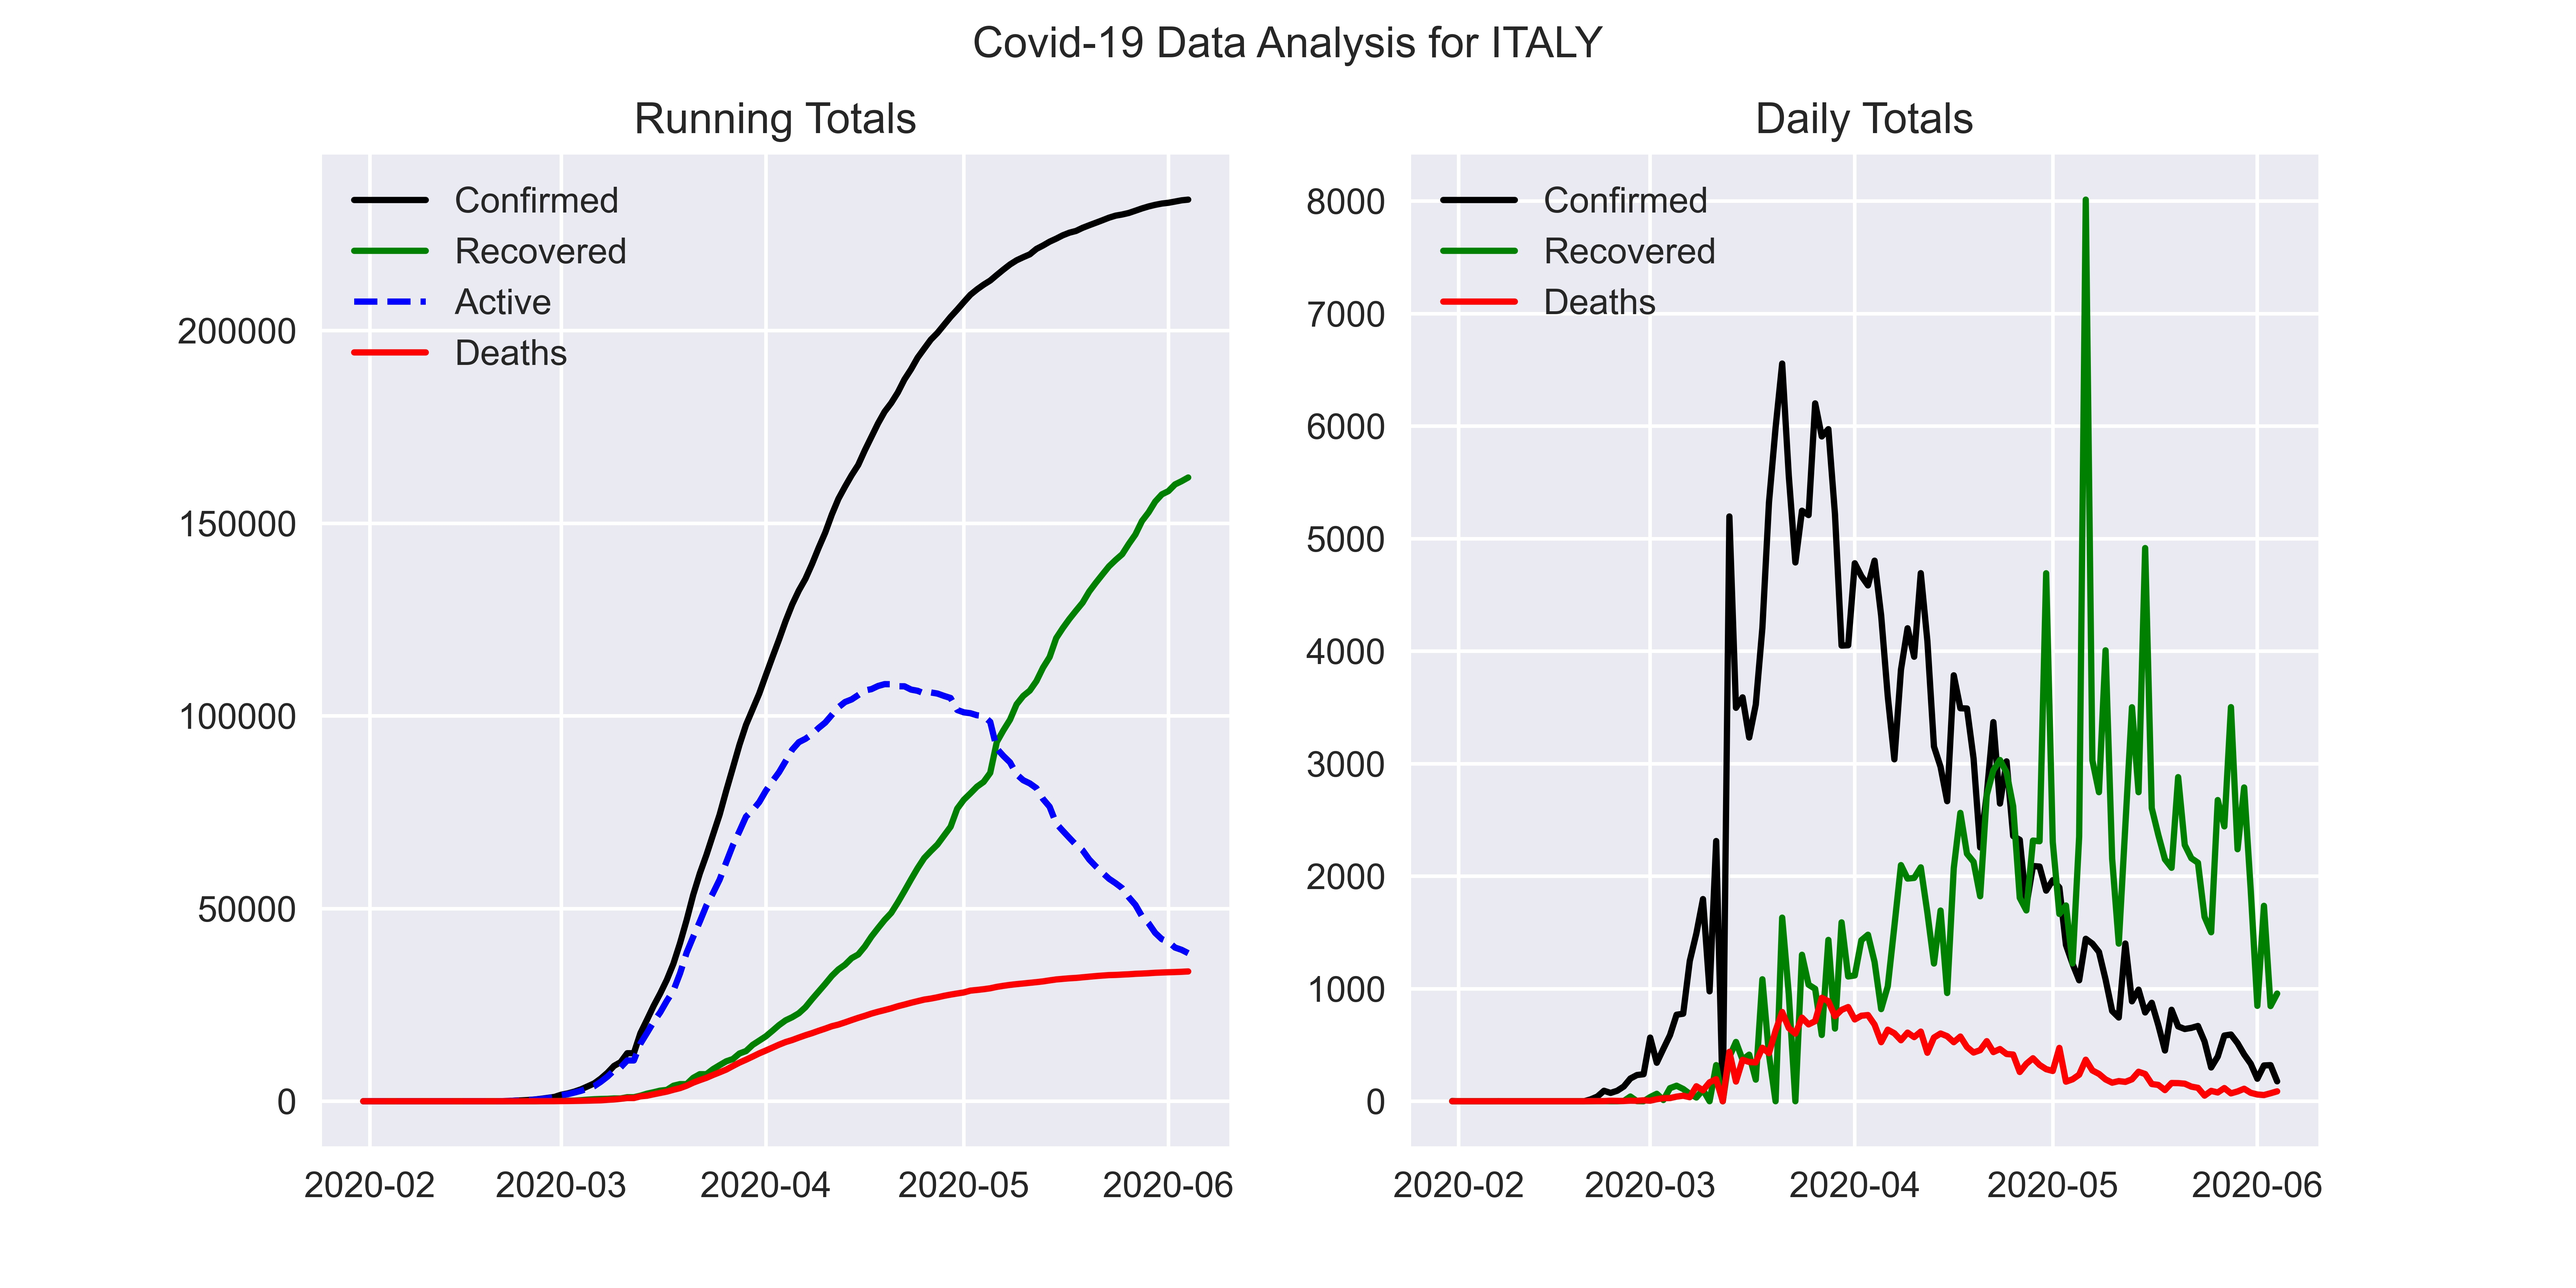
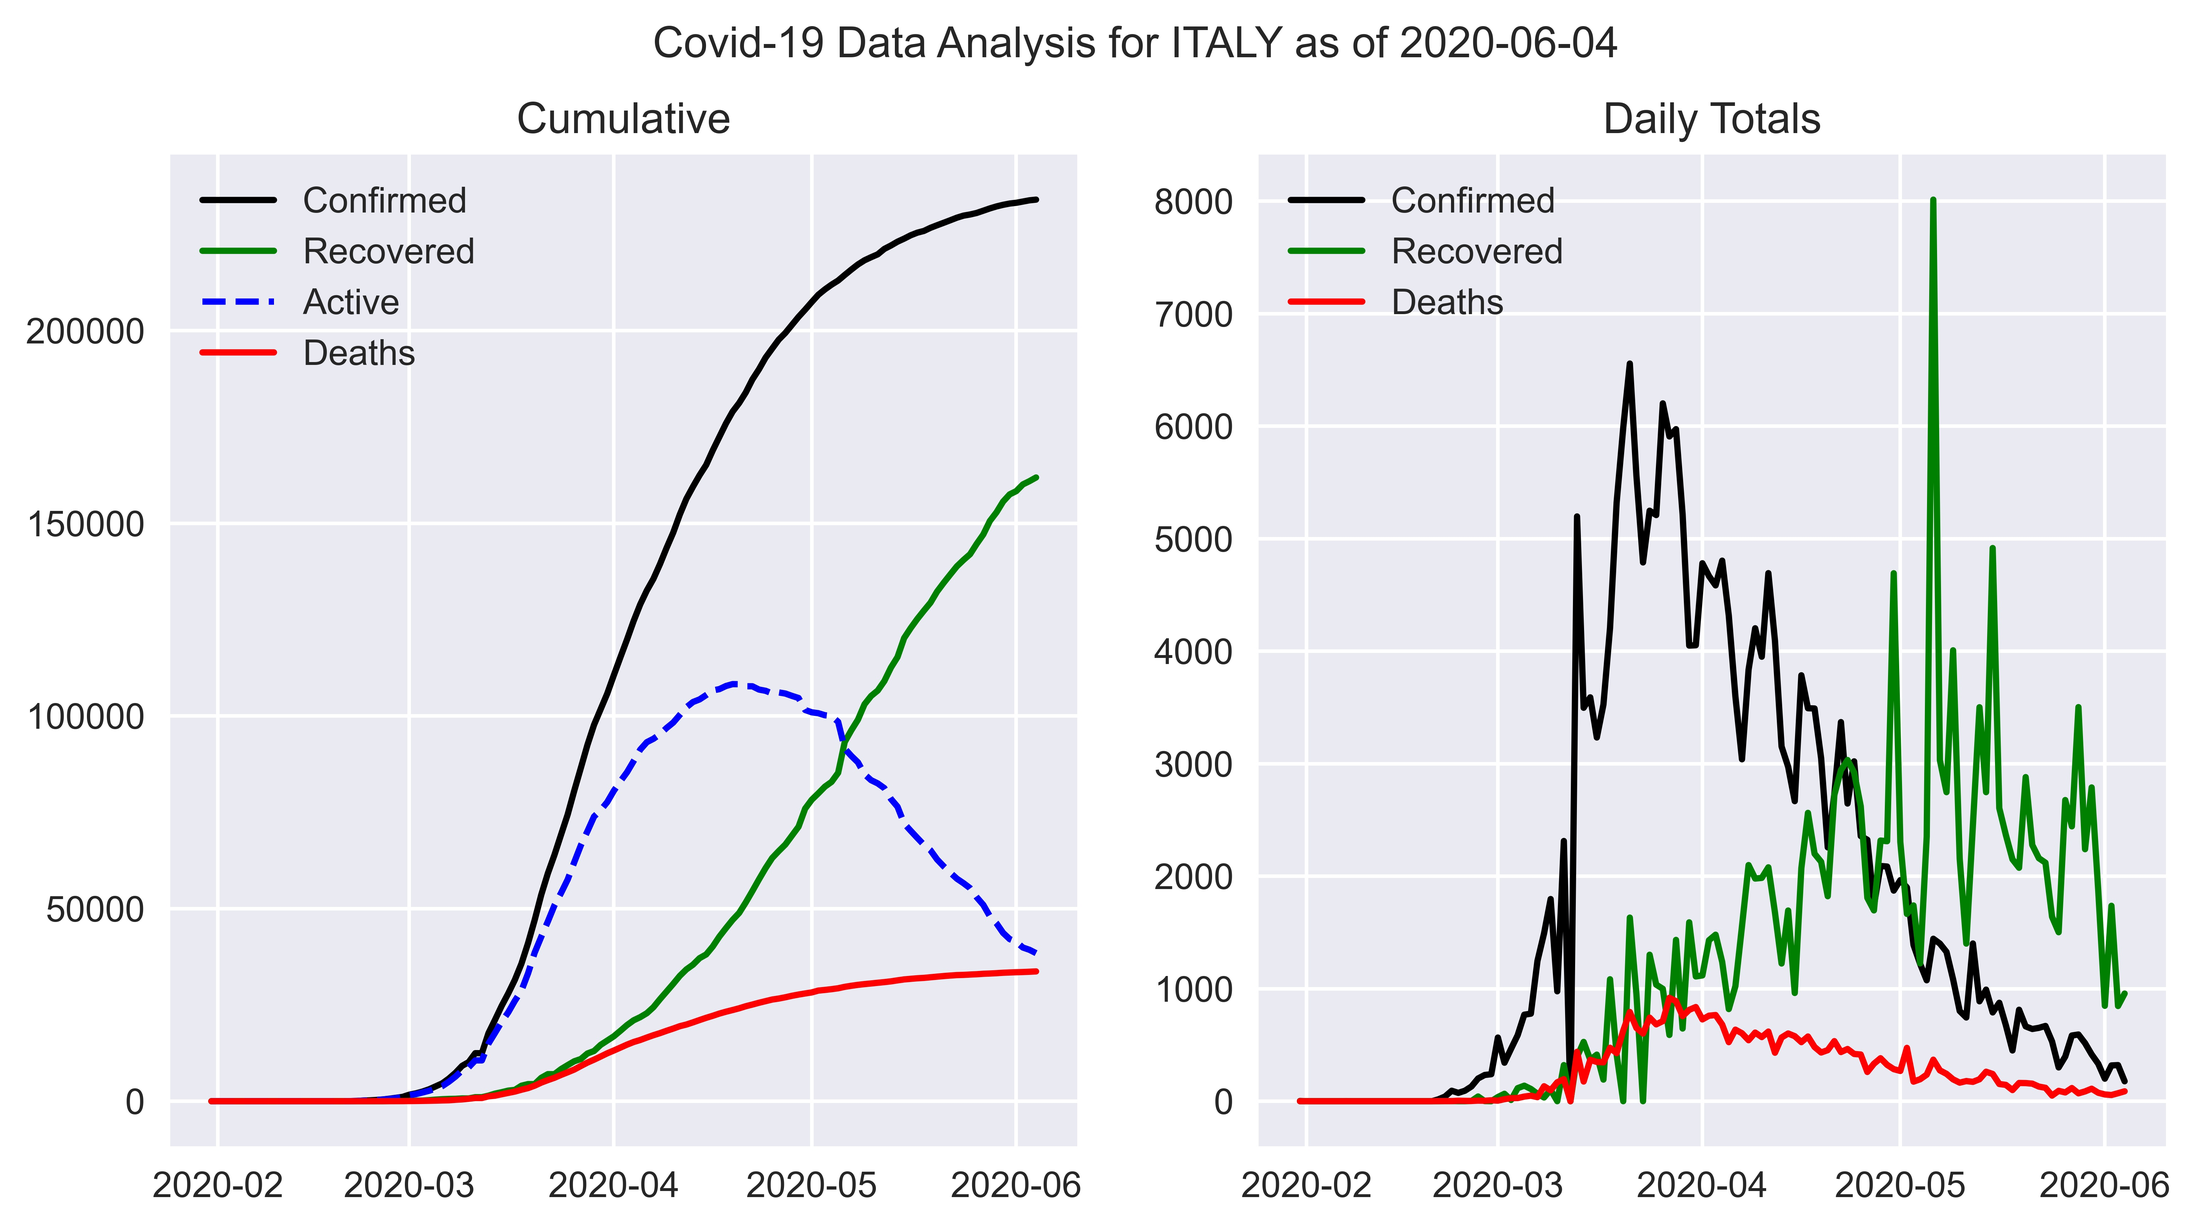
Misc updates

diff --git a/scripts/covid_data_analysis.py b/scripts/covid_data_analysis.py
@@ -83,7 +83,7 @@ ax1.plot(dates_recovered, cases_recovered, color='g', label='Recovered')
 ax1.plot(dates_active, cases_active,'--', color='b', label='Active')
 ax1.plot(dates_deaths, cases_deaths, color='r', label='Deaths')
 ax1.xaxis.set_major_locator(months)
-ax1.set_title('Running Totals')
+ax1.set_title(f'Cumulative')
 ax1.legend(loc='best')
 
 ax2.plot(dates_confirmed, cases_confirmed_daily, color='k', label='Confirmed')
@@ -91,11 +91,12 @@ ax2.plot(dates_recovered, cases_recovered_daily, color='g', label='Recovered')
 #ax2.plot(dates_active, cases_active_daily, color='b', label='Active', marker='.')
 ax2.plot(dates_deaths, cases_deaths_daily, color='r', label='Deaths')
 ax2.xaxis.set_major_locator(months)
-ax2.set_title('Daily Totals')
+ax2.set_title(f'Daily Totals')
 ax2.legend(loc='best')
 
 
-plt.suptitle(f'Covid-19 Data Analysis for {COUNTRY.upper()}')
-plt.savefig(os.path.join(PLOTS_FOLDER_PATH, f'covid-19-analysis-{COUNTRY}-latest.jpg'), dpi=720, bbox_inces='tight')
+date = dates_confirmed[-1].astype('datetime64[D]')
+plt.suptitle(f'Covid-19 Data Analysis for {COUNTRY.upper()} as of {date}')
+plt.savefig(os.path.join(PLOTS_FOLDER_PATH, f'covid-19-analysis-{COUNTRY}-latest.jpg'), dpi=720, bbox_inches='tight')
 plt.show()
 
